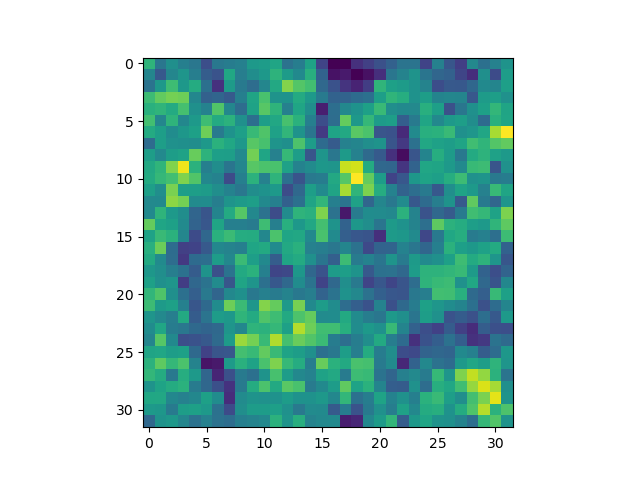
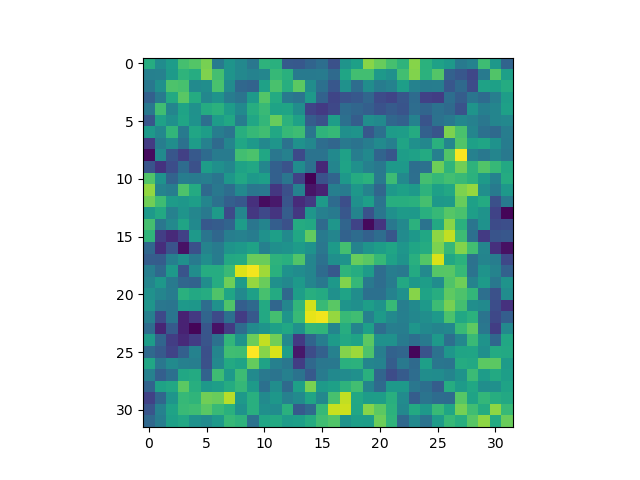
student t model 2 random 0

Changed region(s): [[0.2188, 0.125, 0.8125, 0.9062], [0.375, 0.125, 0.4062, 0.1562]]

diff --git a/studentnugget/masked/unparameterized/evaluation/visualize_generated_samples.py b/studentnugget/masked/unparameterized/evaluation/visualize_generated_samples.py
@@ -18,7 +18,7 @@ device = "cuda:0"
 config = ncsnpp_config.get_config()
 #if trained parallelized, need to be evaluated that way too
 score_model = torch.nn.DataParallel((ncsnpp.NCSNpp(config)).to("cuda:0"))
-score_model.load_state_dict(th.load((home_folder + "/trained_score_models/vpsde/model2_variance_10_lengthscale_1.6_df_10_beta_min_max_01_25_250_random050_masks.pth")))
+score_model.load_state_dict(th.load((home_folder + "/trained_score_models/vpsde/model1_variance_10_lengthscale_1.6_df_1_beta_min_max_01_25_250_random050_masks.pth")))
 score_model.eval()
 
 def construct_norm_matrix(minX, maxX, minY, maxY, n):
@@ -57,10 +57,11 @@ def generate_gaussian_process(minX, maxX, minY, maxY, n, variance, lengthscale, 
         gp_matrix[i,:,:,:] = y_matrix[:,i].reshape((1,n,n))
     return gp_matrix
 
-def generate_student_nugget(minX, maxX, minY, maxY, n, variance, lengthscale, df, number_of_replicates):
+def generate_student_nugget(minX, maxX, minY, maxY, n, variance, lengthscale, df, number_of_replicates,
+                            seed_value):
 
     kernel = construct_exp_kernel(minX, maxX, minY, maxY, n, variance, lengthscale)
-    studentgenerator = scipy.stats.multivariate_t(loc = np.zeros(n**2), shape = kernel, df = df, seed = 23423)
+    studentgenerator = scipy.stats.multivariate_t(loc = np.zeros(n**2), shape = kernel, df = df, seed = seed_value)
     #shape = (number_of_replicates, n**2)
     studentsamples = (studentgenerator.rvs(size = number_of_replicates))
     student_matrix = np.zeros((number_of_replicates,1,n,n))
@@ -146,25 +147,25 @@ maxY = 10
 variance = 10
 lengthscale = 1.6
 number_of_replicates = 2
-df = 10
+df = 1
+seed_value = 9342
 
 
 for i in range(0,10):
-    p = .5
+    print(i)
+    p = 0
     mask = (th.bernoulli(p*th.ones(1,1,n,n))).to(device)
     seed_value = int(np.random.randint(0, 100000))
     unmasked_y = ((th.from_numpy(generate_student_nugget(minX, maxX, minY, maxY, n,
                                                         variance, lengthscale, df,
-                                                        number_of_replicates))).to(device)).float()
+                                                        number_of_replicates, seed_value))).to(device)).float()
     unmasked_y = unmasked_y[0:1,:,:,:]
     y = ((torch.mul(mask, unmasked_y)).to(device)).float()
-    print(y.shape)
-    print(mask.shape)
     num_samples = 2
     diffusion_samples = posterior_sample_with_p_mean_variance_via_mask(sdevp, score_model,
                                                                     device, mask, y, n,
                                                                     num_samples)
 
-    figname = ("visualizations/models/model2/random50_variance_10_lengthscale_1.6_df_10_observed_and_generated_samples_" + str(i) + ".png")
+    figname = ("visualizations/models/model1/random0_variance_10_lengthscale_1.6_df_10_observed_and_generated_samples_" + str(i) + ".png")
     visualize_observed_and_generated_samples(unmasked_y, mask, diffusion_samples[0,:,:,:],
                                             diffusion_samples[1,:,:,:], n, figname)

diff --git a/studentnugget/masked/unparameterized/evaluation/diffusion_generation/conditional_mask_data_generation.py b/studentnugget/masked/unparameterized/evaluation/diffusion_generation/conditional_mask_data_generation.py
@@ -40,7 +40,7 @@ maxX = 10
 minY = -10
 maxY = 10
 n = 32
-variance = .4
+variance = 10
 lengthscale = 1.6
 
 #y is observed part of field
@@ -110,19 +110,19 @@ def plot_masked_spatial_field(spatial_field, mask, vmin, vmax, figname):
 replicates_per_call = 250
 calls = 1
 number_of_replicates = 1
-seed_value = 43423
+seed_value = 83423
 minX = minY = -10
 maxX = maxY = 10
 n = 32
 variance = 10
 lengthscale = 1.6
-df = 1
+df = 10
 number_of_replicates = 2
 ref_vec, ref_img = generate_student_nugget(minX, maxX, minY, maxY, n, variance,
                                   lengthscale, df, number_of_replicates)
 ref_img = ref_img[0,:,:]
 ref_img = th.from_numpy(ref_img.reshape((1,n,n))).to(device)
-p = .5
+p = 0
 mask = (th.bernoulli(p*th.ones(1,1,n,n))).to(device)
 
 for i in range(0, 4):
@@ -133,14 +133,14 @@ for i in range(0, 4):
                                           replicates_per_call, calls)
 
     partially_observed = (mask*ref_img).detach().cpu().numpy().reshape((n,n))
-    np.save("data/model1/ref_image1/ref_image1.npy", ref_img.detach().cpu().numpy().reshape((n,n)))
-    np.save("data/model1/ref_image1/diffusion/model1_beta_min_max_01_25_random50_250_" + str(i) + ".npy", conditional_samples)
-    np.save("data/model1/ref_image1/partially_observed_field.npy", partially_observed.reshape((n,n)))
-    np.save("data/model1/ref_image1/mask.npy", mask.int().detach().cpu().numpy().reshape((n,n)))
-    np.save("data/model1/ref_image1/seed_value.npy", np.array([int(seed_value)]))
+    np.save("data/model2/ref_image1/ref_image1.npy", ref_img.detach().cpu().numpy().reshape((n,n)))
+    np.save("data/model2/ref_image1/diffusion/model1_beta_min_max_01_25_random50_250_" + str(i) + ".npy", conditional_samples)
+    np.save("data/model2/ref_image1/partially_observed_field.npy", partially_observed.reshape((n,n)))
+    np.save("data/model2/ref_image1/mask.npy", mask.int().detach().cpu().numpy().reshape((n,n)))
+    np.save("data/model2/ref_image1/seed_value.npy", np.array([int(seed_value)]))
 
-    plot_spatial_field(ref_img.detach().cpu().numpy().reshape((n,n)), -8, 8, "data/model1/ref_image1/ref_image.png")
-    plot_spatial_field((conditional_samples[0,:,:,:]).numpy().reshape((n,n)), -8, 8, "data/model1/ref_image1/diffusion/visualizations/conditional_sample_0.png")
+    plot_spatial_field(ref_img.detach().cpu().numpy().reshape((n,n)), -8, 8, "data/model2/ref_image1/ref_image.png")
+    plot_spatial_field((conditional_samples[0,:,:,:]).numpy().reshape((n,n)), -8, 8, "data/model2/ref_image1/diffusion/visualizations/conditional_sample_0.png")
     plot_masked_spatial_field(spatial_field = ref_img.detach().cpu().numpy().reshape((n,n)),
-                   vmin = -8, vmax = 8, mask = mask.int().float().detach().cpu().numpy().reshape((n,n)), figname = "data/model1/ref_image1/partially_observed_field.png")
+                   vmin = -8, vmax = 8, mask = mask.int().float().detach().cpu().numpy().reshape((n,n)), figname = "data/model2/ref_image1/partially_observed_field.png")
                    
